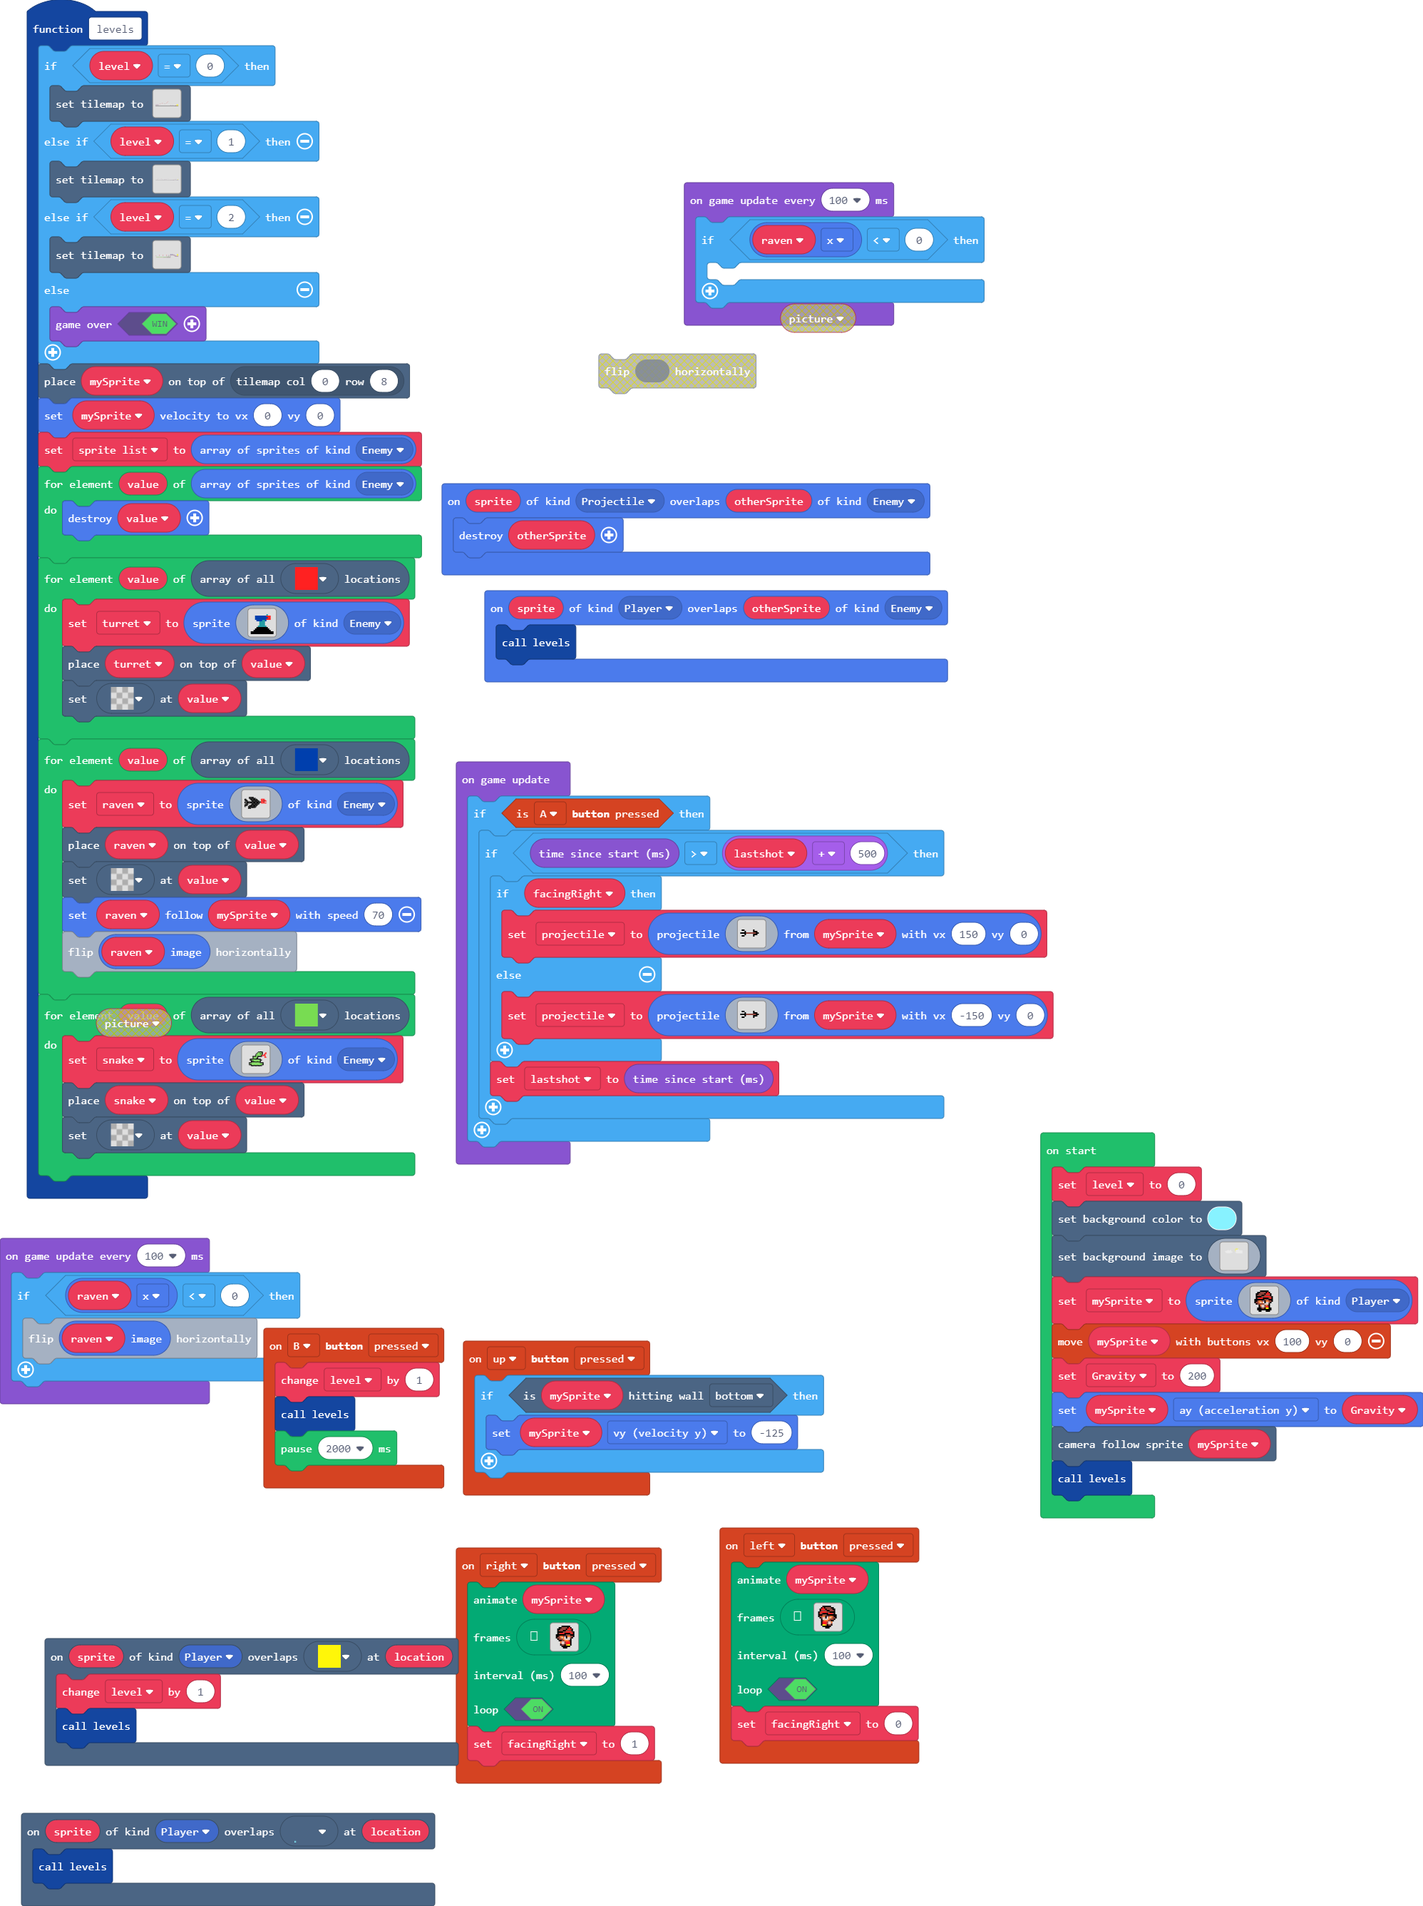
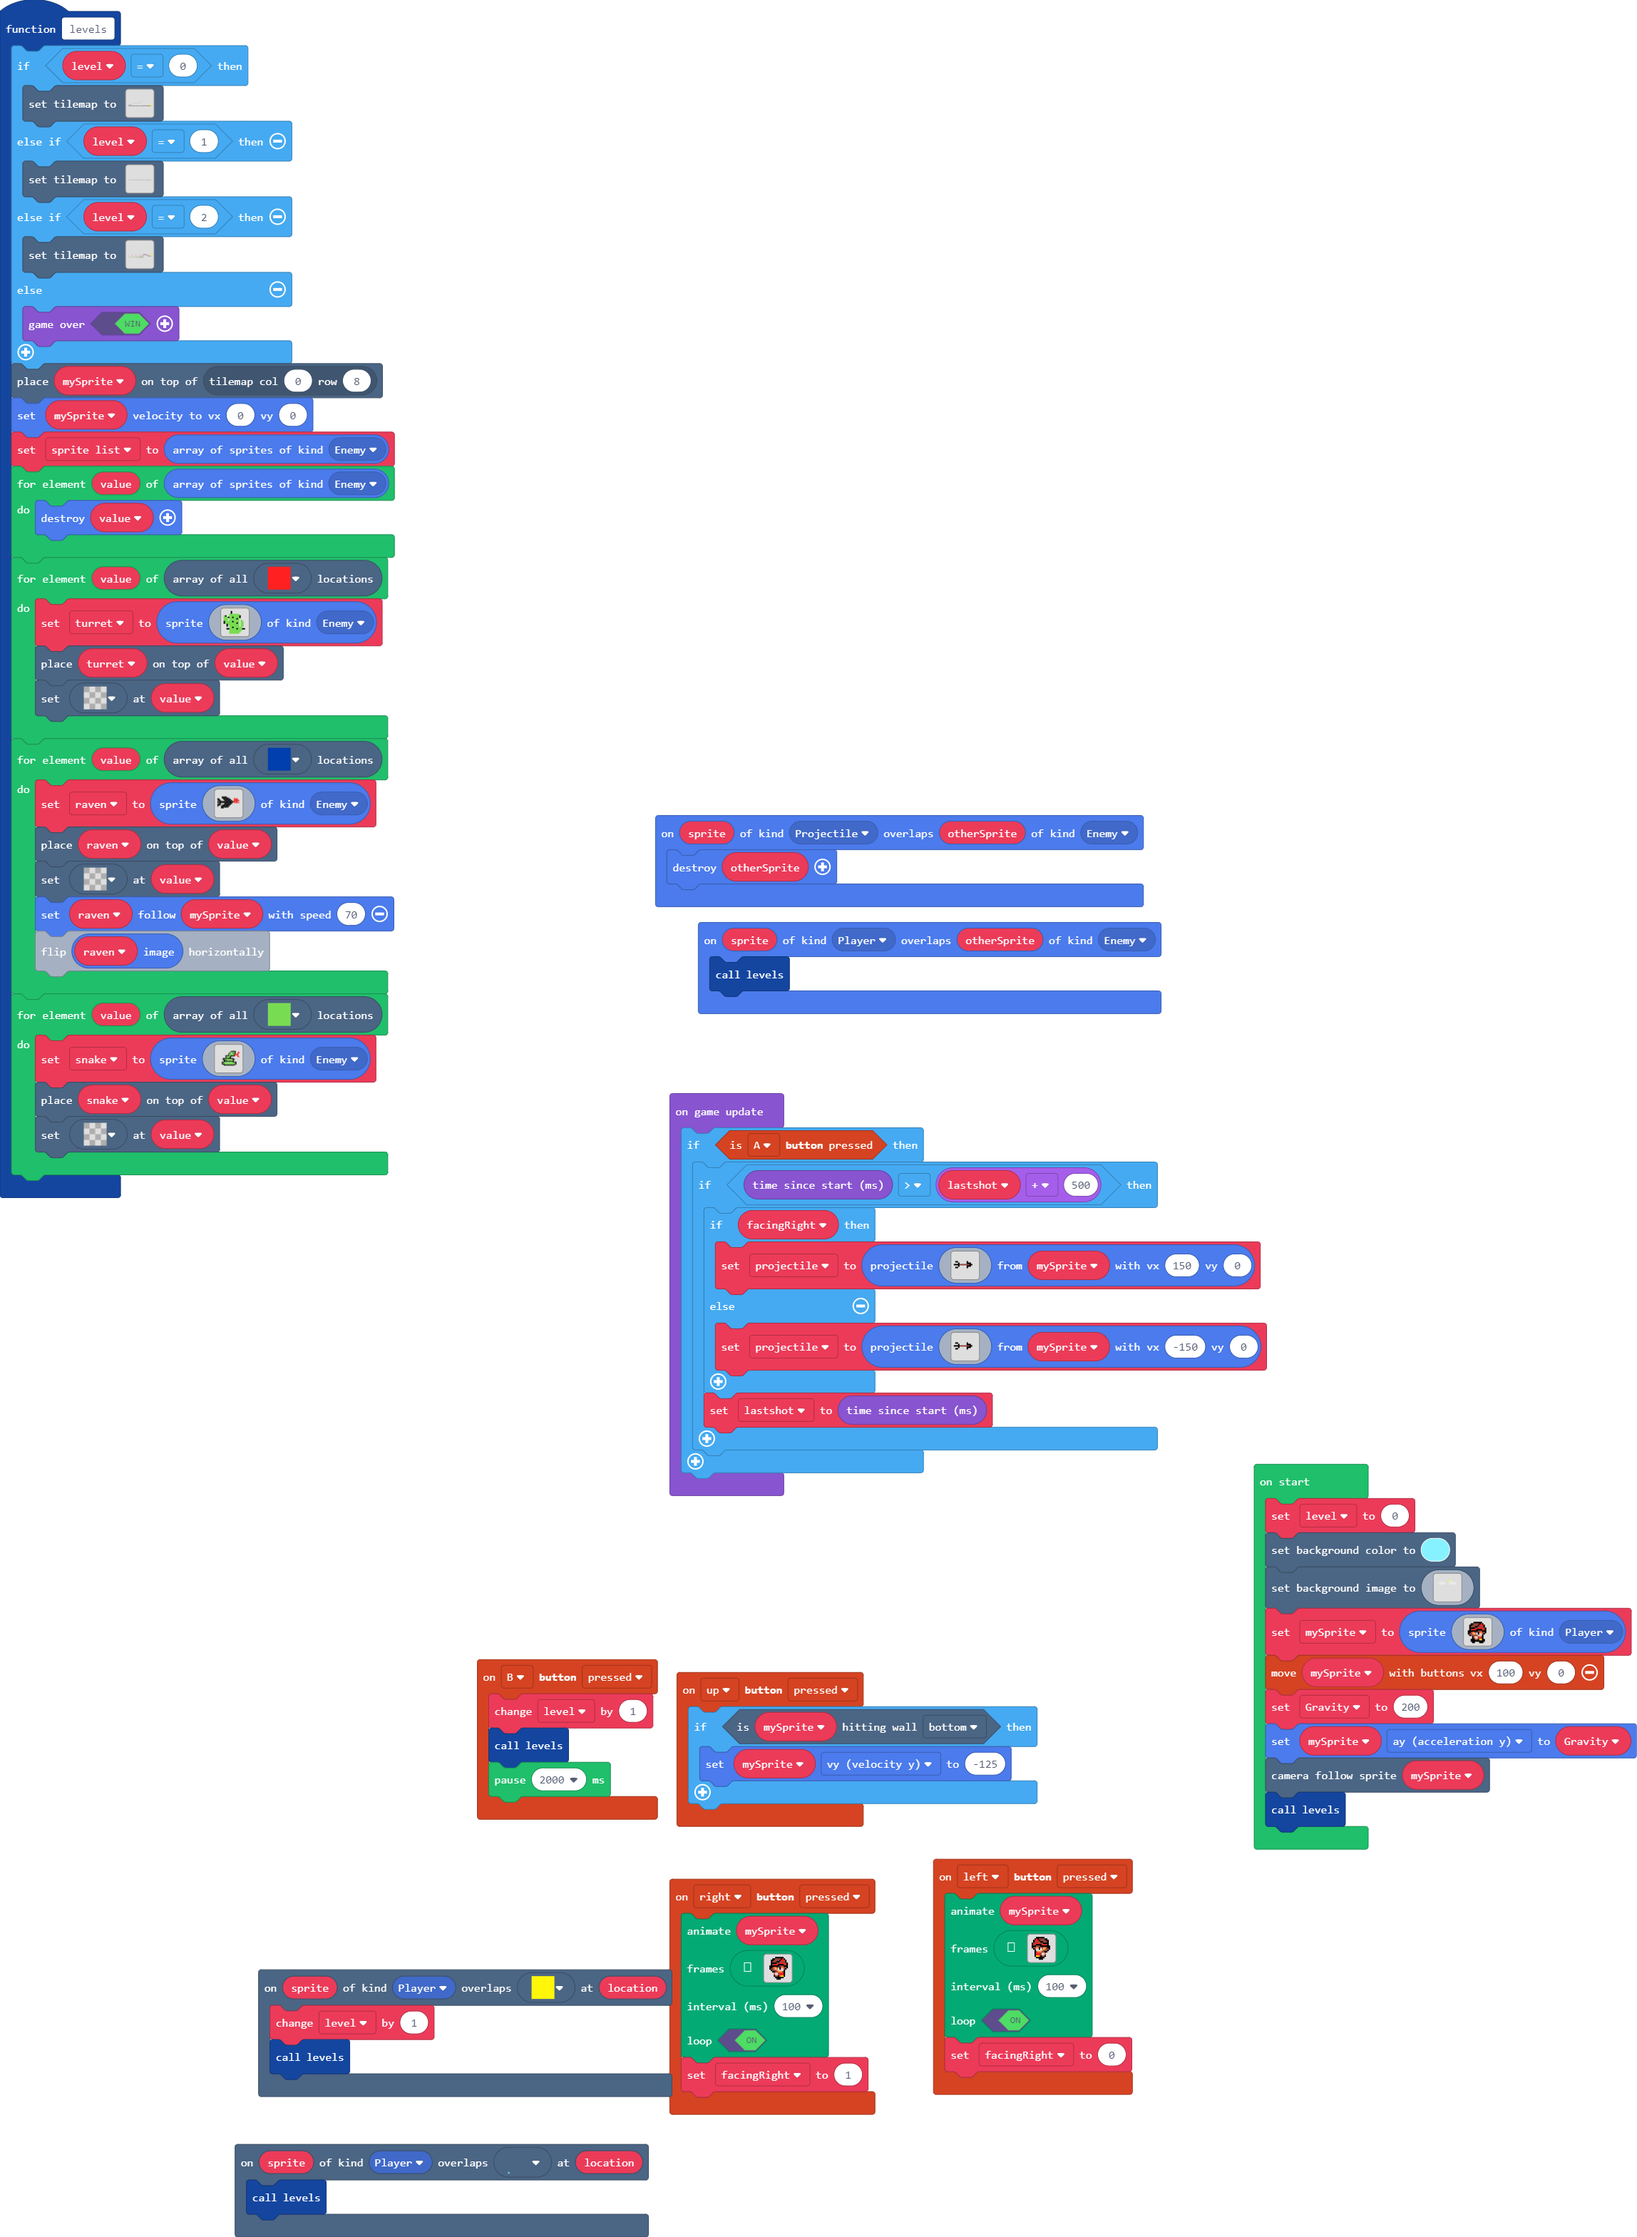
removed turrets and replaced with cacti -- couldn't get them to work properly has makecode is rather limited compared to scratch. CAN'T FIX RAVENS not facing the right way as makecode does not having a 'point to x degrees' attribute.

diff --git a/main.ts b/main.ts
@@ -389,7 +389,7 @@ function levels () {
         ))
     } else if (level == 1) {
         tiles.setTilemap(tiles.createTilemap(
[2 lines of base64/hex data omitted]
             img`
 . . . . . . . . . . . . . . . . . . . . . . . . . . . . . . . . . . . . . . . . . . . . . . . . . . . . . . . . . . . . . . . . . . . . . . . . . . . . . . . . . . . . . . . . . . . . . . . . . . . . . . . . . . . . . . . . . . . . . . . . . . . . . . . . 
 . . . . . . . . . . . . . . . . . . . . . . . . . . . . . . . . . . . . . . . . . . . . . . . . . . . . . . . . . . . . . . . . . . . . . . . . . . . . . . . . . . . . . . . . . . . . . . . . . . . . . . . . . . . . . . . . . . . . . . . . . . . . . . . . 
@@ -424,10 +424,10 @@ function levels () {
 . . . . . . . . . . . . . . . . . . . . . . . . . . . . . . . . . . . . . . . . . . . . . . . . . . 
 . . . . . . . . . . . . . . . . . . . . . . . . . . . . . . . . . . . . . . . . . . . . . . . . . . 
 . . . . . . . . . . . . . . . . . . . . . . . . . . . . . . . . . . . . . . . . . . . . . . . . . . 
-. . . . . . . . . . . . . . . . . . . . . . . . . . . . . . . . . . . . . . . . . . . . . . . . . . 
-. . . . . . . . . . . . . . . . . . . . . . . . . . . . . . . . . . . . . . . . . . . . . . . . . . 
-. . . . . . . . . . . . . . . . . . . . . . . . . . . . . . . . . . . . . . . . . . . . . . . . . . 
-. . . . . . . . . . . . . . . . . . . . . . . . . . . . . . . . . . . . . . . . . . . . . . . . . . 
+. . . . . . . . . . . . . . . . . . . . . . . . . . . . . . . . 2 2 2 2 2 2 2 2 2 . . . . . . . . . 
+. . . . . . . . . . . . . . . . . . . . . . . . . . . . 2 . . . . . 2 2 2 . . . 2 2 2 . . . . . . . 
+2 2 . . . . . . 2 . . . . . . . 2 . . . . . . . 2 . . . . . . . . . . . . . . . . . 2 2 2 . . . . . 
+. . . . . . . . . . . . . . . . . . . . . . . . . . . . . . . . . . . . . . . . . . . . 2 2 2 2 2 2 
 . . . . . . . . . . . . . . . . . . . . . . . . . . . . . . . . . . . . . . . . . . . . . . . . . . 
 . . . . . . . . . . . . . . . . . . . . . . . . . . . . . . . . . . . . . . . . . . . . . . . . . . 
 . . . . . . . . . . . . . . . . . . . . . . . . . . . . . . . . . . . . . . . . . . . . . . . . . . 
@@ -446,22 +446,22 @@ function levels () {
     }
     for (let value of tiles.getTilesByType(myTiles.tile3)) {
         turret = sprites.create(img`
-. . . . . . . . . . . . . . . . 
-. . . . . . . . . . . . . . . . 
-. . . . . . . . . . . 6 . . . . 
-. . . 8 8 8 8 8 8 8 8 2 2 2 . . 
-. . . 8 8 8 8 8 8 8 8 8 2 2 . . 
-. . . 8 8 8 8 8 8 8 8 2 2 2 . . 
-. . . . 8 8 8 8 6 6 8 . . . . . 
-. . . . . . 6 6 6 6 . . . . . . 
-. . . . . . 6 6 6 6 . . . . . . 
-. . . . . . 6 6 6 6 . . . . . . 
-. . . . . 6 6 6 6 6 6 . . . . . 
-. . . . f f f f f f f f . . . . 
-. . . f f f f f f f f f f . . . 
-. . f f f f f f f f f f f f . . 
-f f f f f f f f f f f f f f f f 
-f f f f f f f f f f f f f f f f 
+. . . . . f . . . . . . . . . . 
+. . . . . f . . . . . . . . . . 
+. . . . 7 7 7 7 7 7 7 . . . . . 
+7 f . . 7 7 7 7 7 7 7 f . . . . 
+7 7 7 f 7 7 f 7 7 7 7 f . . . . 
+7 7 7 . 7 7 7 7 7 f 7 . . . . . 
+7 7 7 . 7 7 7 7 7 7 7 . 7 . . . 
+f 7 7 7 7 7 f 7 7 7 7 . 7 7 . . 
+f 7 7 7 7 7 7 7 7 f 7 . 7 7 . . 
+. . f 7 7 7 7 7 7 7 7 . 7 7 . . 
+. . f . 7 7 7 7 7 7 7 . 7 7 . . 
+. . . . 7 7 f 7 7 7 7 7 7 . . . 
+. . f f 7 7 7 7 7 f 7 7 7 f f . 
+. . . . 7 7 7 7 7 7 7 7 7 . . . 
+. . . . 7 7 7 7 7 7 7 7 . . . . 
+. . . . 7 7 7 7 7 7 7 . . . . . 
 `, SpriteKind.Enemy)
         tiles.placeOnTile(turret, value)
         tiles.setTileAt(value, myTiles.tile0)
@@ -677,16 +677,6 @@ let Gravity = 200
 mySprite.ay = Gravity
 scene.cameraFollowSprite(mySprite)
 levels()
-game.onUpdateInterval(100, function () {
-    if (raven.x < 0) {
-    	
-    }
-})
-game.onUpdateInterval(100, function () {
-    if (raven.x < 0) {
-        raven.image.flipX()
-    }
-})
 game.onUpdate(function () {
     if (controller.A.isPressed()) {
         if (game.runtime() > lastshot + 500) {
